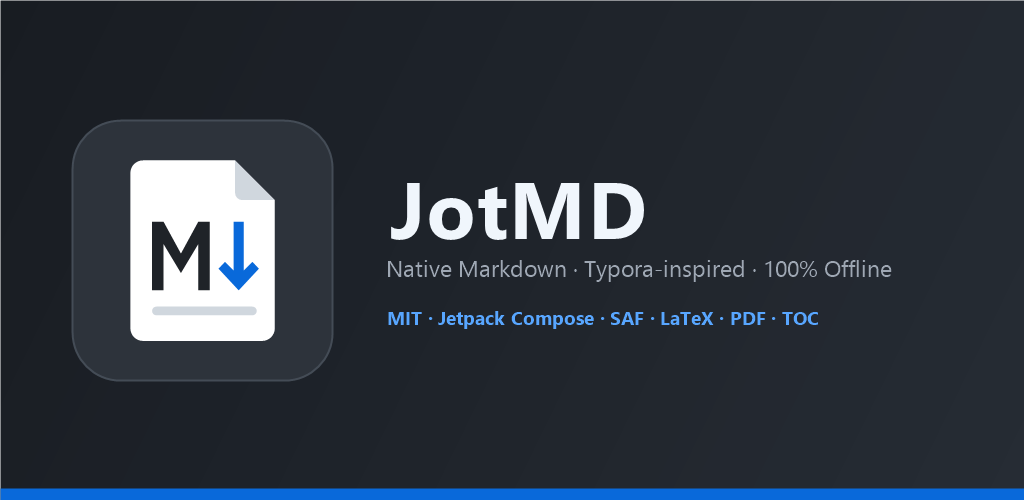
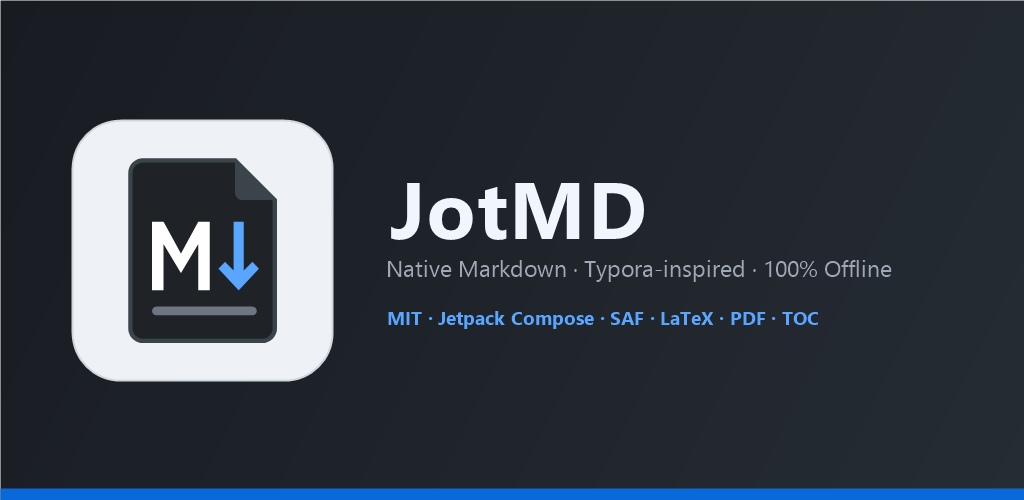
fix(icone): melhorar contraste na splash screen Android e adicionar icone no Windows (v0.3.2)

Changed region(s): [[0.0625, 0.24, 0.3438, 0.78]]

diff --git a/desktop/src/main/kotlin/io/github/walterfr/jotmd/desktop/Main.kt b/desktop/src/main/kotlin/io/github/walterfr/jotmd/desktop/Main.kt
@@ -51,6 +51,9 @@ import androidx.compose.ui.draw.clip
 import androidx.compose.ui.focus.FocusRequester
 import androidx.compose.ui.focus.focusRequester
 import androidx.compose.ui.graphics.Color
+import androidx.compose.ui.graphics.painter.BitmapPainter
+import androidx.compose.ui.graphics.painter.Painter
+import androidx.compose.ui.graphics.toComposeImageBitmap
 import androidx.compose.ui.input.key.Key
 import androidx.compose.ui.input.key.KeyEvent
 import androidx.compose.ui.input.key.KeyEventType
@@ -103,6 +106,7 @@ import javax.swing.SwingUtilities
 import javax.swing.UIManager
 import kotlin.coroutines.resume
 import kotlin.coroutines.suspendCoroutine
+import org.jetbrains.skia.Image as SkiaImage
 
 private const val AUTOSAVE_DELAY_MS = 1000L
 
@@ -139,6 +143,7 @@ fun main() = application {
             exitApplication()
         },
         title = "JotMD — $dirtyMark${active?.title ?: "Sem Título"}",
+        icon = remember { loadWindowIcon() },
         state = rememberWindowState(width = 1120.dp, height = 760.dp),
         onPreviewKeyEvent = { event ->
             handleWindowShortcut(
@@ -1829,3 +1834,11 @@ private suspend fun pickExportSaveFile(
         cont.resume(chosen)
     }
 }
+
+private fun loadWindowIcon(): Painter? = runCatching {
+    val bytes = DesktopTabManager::class.java.classLoader
+        ?.getResourceAsStream("jotmd-icon.png")
+        ?.use { it.readBytes() }
+        ?: return null
+    BitmapPainter(SkiaImage.makeFromEncoded(bytes).toComposeImageBitmap())
+}.getOrNull()

diff --git a/desktop/src/test/kotlin/io/github/walterfr/jotmd/desktop/DesktopWorkspaceTest.kt b/desktop/src/test/kotlin/io/github/walterfr/jotmd/desktop/DesktopWorkspaceTest.kt
@@ -467,4 +467,28 @@ class DesktopWorkspaceTest {
         )
         assertTrue(readClipboardPayload(clipboard) is ClipboardPayload.Image)
     }
+
+    @Test
+    fun `recursos de icone Windows estao presentes no classpath em PNG e ICO multi-resolucao`() {
+        val loader = DesktopWorkspaceTest::class.java.classLoader
+        val png = loader.getResourceAsStream("jotmd-icon.png")?.use { it.readBytes() }
+        assertNotNull(png, "jotmd-icon.png deve existir nos resources do desktop")
+        assertTrue(
+            png.size > 8 &&
+                png[0] == 0x89.toByte() && png[1] == 0x50.toByte() &&
+                png[2] == 0x4E.toByte() && png[3] == 0x47.toByte(),
+            "jotmd-icon.png deve ter cabecalho PNG valido",
+        )
+
+        val ico = loader.getResourceAsStream("jotmd.ico")?.use { it.readBytes() }
+        assertNotNull(ico, "jotmd.ico deve existir nos resources do desktop")
+        assertTrue(
+            ico.size > 22 &&
+                ico[0] == 0.toByte() && ico[1] == 0.toByte() &&
+                ico[2] == 1.toByte() && ico[3] == 0.toByte(),
+            "jotmd.ico deve ter cabecalho ICONDIR valido",
+        )
+        val count = (ico[4].toInt() and 0xFF) or ((ico[5].toInt() and 0xFF) shl 8)
+        assertTrue(count >= 5, "jotmd.ico deve conter ao menos 5 resolucoes")
+    }
 }

diff --git a/README.md b/README.md
@@ -2,7 +2,7 @@
 
 [![Release](https://img.shields.io/github/v/release/walterfr/JotMD?label=Release)](https://github.com/walterfr/JotMD/releases/latest)
 [![License: MIT](https://img.shields.io/badge/License-MIT-blue.svg)](LICENSE)
-[![Pride Versioning](https://img.shields.io/badge/PrideVer-0.3.1-ff69b4)](https://pridever.org/)
+[![Pride Versioning](https://img.shields.io/badge/PrideVer-0.3.2-ff69b4)](https://pridever.org/)
 [![Kotlin](https://img.shields.io/badge/Kotlin-2.1.21-7F52FF.svg)](gradle/libs.versions.toml)
 [![Android](https://img.shields.io/badge/Android-8.0%2B%20(API%2026)-3DDC84.svg)](app/build.gradle.kts)
 [![Windows](https://img.shields.io/badge/Windows-Compose%20Desktop-0078D4.svg)](desktop/build.gradle.kts)
@@ -22,10 +22,10 @@ Baixe os instaladores e checksums (`SHA256SUMS.txt`) na página de [**GitHub Rel
 
 | Plataforma | Artefato | Observação |
 |---|---|---|
-| Android 8.0+ | `jotmd-android-0.3.1.apk` | Assinado via release CI; sem permissões invasivas (`dependenciesInfo` desativado) |
-| Windows (x64) | `jotmd-windows-0.3.1.msi` | Instalador Windows padrão (WiX) |
-| Windows (x64) | `jotmd-windows-0.3.1-setup.exe` | Instalador executável |
-| Windows (x64) | `jotmd-windows-0.3.1-portable.zip` | Versão portátil (extraia e execute `JotMD.exe`) |
+| Android 8.0+ | `jotmd-android-0.3.2.apk` | Assinado via release CI; sem permissões invasivas (`dependenciesInfo` desativado) |
+| Windows (x64) | `jotmd-windows-0.3.2.msi` | Instalador Windows padrão (WiX) |
+| Windows (x64) | `jotmd-windows-0.3.2-setup.exe` | Instalador executável |
+| Windows (x64) | `jotmd-windows-0.3.2-portable.zip` | Versão portátil (extraia e execute `JotMD.exe`) |
 
 ---
 
@@ -140,7 +140,7 @@ serialize(parse(texto)) == texto   // byte a byte, para qualquer entrada
 ./gradlew :desktop:run
 
 # Empacotar distribuível e instaladores Windows (.msi / .exe / imagem portátil)
-./gradlew :desktop:createDistributable :desktop:packageMsi :desktop:packageExe "-PdesktopPackageVersion=0.3.1"
+./gradlew :desktop:createDistributable :desktop:packageMsi :desktop:packageExe "-PdesktopPackageVersion=0.3.2"
 ```
 
 *(No PowerShell do Windows, use `.\gradlew.bat` e mantenha parâmetros `-P...=...` entre aspas.)*

diff --git a/AGENTS.md b/AGENTS.md
@@ -135,13 +135,17 @@ Verificado em tablet Android (`TB361FU - 16`, Android 16 via `adb`):
   validação completa da `v0.3.0`: CRUD SAF, TOC, LaTeX, realce sintático 1:1,
   busca regex `.*`, modos `</>`/`Foco`, tema `Night` e tabela `3x4`).
 
-Concluído para submissão ao F-Droid (`v0.3.1`, `versionCode 4`):
+Concluído para submissão ao F-Droid (`v0.3.2`, `versionCode 5`):
 
-- Ícone adaptativo vetorial (`ic_launcher_background`/`ic_launcher_foreground`)
-  e mipmaps PNG legados (`mipmap-*`), banner `featureGraphic.png` (`pt-BR` e
-  `en-US`), ícone `512x512` e screenshots tablet `tenInchScreenshots/` no
-  Fastlane; módulo `:desktop` isolado via `-PandroidOnly=true` / `rm: [desktop]`
-  no `settings.gradle.kts`, `distributionSha256Sum` no `gradle-wrapper.properties`
+- Ícone adaptativo vetorial de alto contraste (folha grafite `#1F2328` sobre
+  `#EEF2F6` com `ic_launcher_monochrome` e temas API 31+ `values-v31` /
+  `values-night-v31` para visibilidade na splash screen clara e escura),
+  mipmaps PNG legados (`mipmap-*`), banner `featureGraphic.png` (`pt-BR` e
+  `en-US`), ícone `512x512`, screenshots tablet `tenInchScreenshots/` no
+  Fastlane e ícone Windows (`desktop/src/main/resources/jotmd-icon.png` e
+  `jotmd.ico` multi-resolução na janela Compose + `nativeDistributions.windows`);
+  módulo `:desktop` isolado via `-PandroidOnly=true` / `rm: [desktop]` no
+  `settings.gradle.kts`, `distributionSha256Sum` no `gradle-wrapper.properties`
   e receita `fdroid/io.github.walterfr.jotmd.yml` (`AutoUpdateMode: Version v%v`,
   `Donate`, ordem do `fdroidserver`).
 
